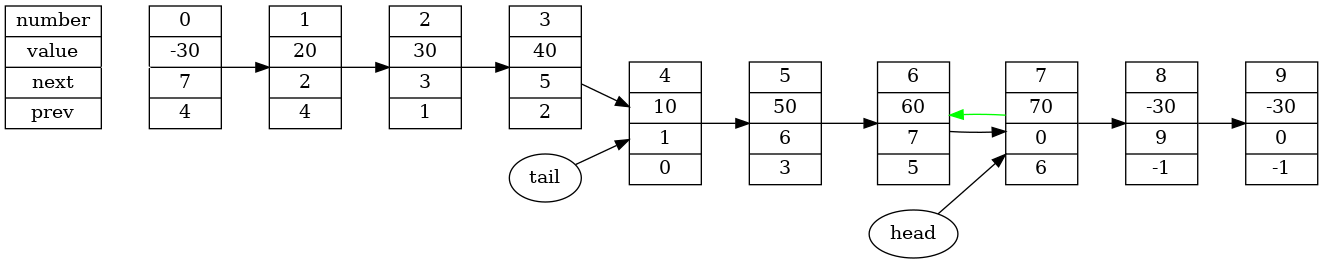
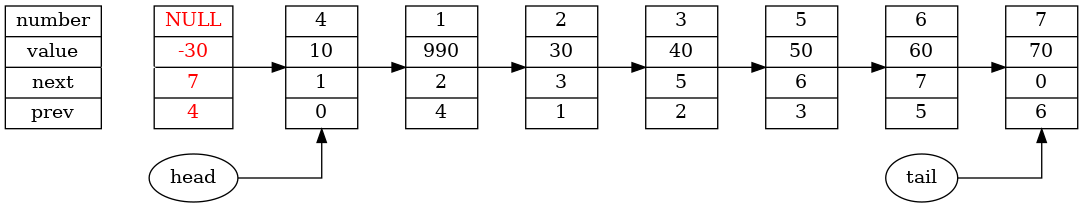
new dump

diff --git a/list.cpp b/list.cpp
@@ -4,7 +4,7 @@ RETURN_VALUES listCtor (LIST *list, int size)
 {
     assert (list);
 
-    if (list->free != 1)
+    if (list->free != EMPTY_LIST)
     {
         printf ("This list is not empty\n");
         return ERROR;
@@ -16,9 +16,9 @@ RETURN_VALUES listCtor (LIST *list, int size)
         return ERROR;
     }
 
-    for (int i = 0; i < LIST_SIZE; i++)
+    for (int numberElement = 0; numberElement < LIST_SIZE; numberElement++ )
     {
-        list->data[i] = POISON;
+        list->data[numberElement]  = POISON;
     }
 
     list->next = (int*)calloc ((size_t)size, sizeof(int));
@@ -27,13 +27,13 @@ RETURN_VALUES listCtor (LIST *list, int size)
         return ERROR;
     }
 
-    for (int i = 0; i < LIST_SIZE; i++)
+    for (int numberElement = 0; numberElement < LIST_SIZE; numberElement++ )
     {
-        if (i == 0 || i == LIST_SIZE - 1)
+        if (numberElement == 0 || numberElement == LIST_SIZE - 1)
         {
-            list->next[i] = 0;
+            list->next[numberElement]  = 0;
         } else {
-            list->next[i] = i + 1;
+            list->next[numberElement]  = numberElement + 1;
         }
     }
 
@@ -43,13 +43,13 @@ RETURN_VALUES listCtor (LIST *list, int size)
         return ERROR;
     }
 
-    for (int i = 0; i < LIST_SIZE; i++)
+    for (int numberElement = 0; numberElement < LIST_SIZE; numberElement++ )
     {
-        if (i == 0)
+        if (numberElement == 0)
         {
-            list->prev[i] = 1;
+            list->prev[numberElement]  = 1;
         } else {
-            list->prev[i] = EMPTY_ELEMENT;
+            list->prev[numberElement]  = EMPTY_ELEMENT;
         }
     }
 
@@ -79,9 +79,9 @@ void listDump (FILE *logFile, LIST *list)
     fprintf (logFile, "\n\n\n");
 
     fprintf (logFile, "Number:");
-    for (int i = 0; i < LIST_SIZE; i++)
+    for (int numberElement = 0; numberElement < LIST_SIZE; numberElement++ )
     {
-        fprintf (logFile, "%4d ", i);
+        fprintf (logFile, "%4d ", numberElement);
     }
     fprintf (logFile, "\n");
 
@@ -131,9 +131,9 @@ void print (FILE *logFile, int *array, const char *name)
 {
     fprintf (logFile, "%s ", name);
 
-    for (int i = 0; i < LIST_SIZE; i++)
+    for (int numberElement = 0; numberElement < LIST_SIZE; numberElement++ )
     {
-        fprintf (logFile, "%4d ", array[i]);
+        fprintf (logFile, "%4d ", array[numberElement]);
     }
 
     fprintf (logFile, "\n");
@@ -171,4 +171,48 @@ LIST_ERRORS listPrintError (LIST *list, int line, const char* function, const ch
     printf ("Error in file %s:%d (function %s)\n", file, line, function);
 
     return list->listState;
+}
+
+RETURN_VALUES makeDotFile (LIST *list)
+{
+    FILE * dotFile = fopen ("dot.dot", "w");
+        if (dotFile == NULL)
+        {
+            return ERROR;
+        }
+
+    fprintf (dotFile, "digraph G{\nsplines=ortho;\nrankdir=LR;\nlist[shape=record,label=\" number | value | next | prev\"];\n");
+
+    for (int numberElement = 0; numberElement < LIST_SIZE; numberElement++ )
+    {
+        if (list->data[numberElement]  != POISON || numberElement == 0)
+        {
+            if (numberElement == 0)
+            {
+                fprintf (dotFile, "%d [shape=record,label=\" NULL | %d | %d | %d\", fontcolor = red];\n", numberElement, list->data[numberElement], list->next[numberElement], list->prev[numberElement]);
+            } else {
+                fprintf (dotFile, "%d [shape=record,label=\" %d | %d | %d | %d\" ];\n", numberElement, numberElement, list->data[numberElement], list->next[numberElement], list->prev[numberElement]);
+            }
+        }
+    }
+
+    fprintf (dotFile, "list -> 0[color=white];\n");
+
+    fprintf (dotFile, "0 -> ");
+    int ind = 0;
+    for (int numberElement = list->prev[0]; numberElement != 0 && list->data[list->next[numberElement]] != POISON; numberElement = list->next[numberElement])
+    {
+        fprintf (dotFile, "%d -> ", numberElement);
+        ind = numberElement;
+    }
+    fprintf (dotFile, "%d[weight = 1000];\n", list->next[ind]);
+
+    fprintf (dotFile, "tail -> %d;\n", list->next[0]);
+    fprintf (dotFile, "head -> %d;\n", list->prev[0]);
+
+    fprintf (dotFile, "}");
+
+    fclose (dotFile);
+
+    return CORRECT;
 }

diff --git a/listOperations.cpp b/listOperations.cpp
@@ -43,8 +43,8 @@ RETURN_VALUES listAddElement (LIST *list, int value, int line, const char* funct
 
     list->prev[currentElement] = previousElement;
 
-    //makeDotFile (list, previousElement, currentElement, "green");
-    //system ("dot dot.dot -Tpng -o gr.png");
+    makeDotFile (list);
+    system ("dot dot.dot -Tpng -o gr.png");
 
     return CORRECT;
 }
@@ -123,39 +123,4 @@ int listSearchElement (LIST *list, int value, int line, const char* function, co
 
     printf ("This element doesn't exist");
     return EMPTY_ELEMENT;
-}
-
-RETURN_VALUES makeDotFile (LIST *list, int anchor, int prev, const char *color)
-{
-    FILE * dotFile = fopen ("dot.dot", "w");
-        if (dotFile == NULL)
-        {
-            return ERROR;
-        }
-
-    fprintf (dotFile, "digraph G{\nrankdir=LR;\nlist[shape=record,label=\" number | value | next | prev\"];\n");
-
-    for (int i = 0; i < LIST_SIZE; i++)
-    {
-        fprintf (dotFile, "%d [shape=record,label=\" %d | %d | %d | %d\" ];\n", i, i, list->data[i], list->next[i], list->prev[i]);
-    }
-
-    fprintf (dotFile, "list -> 0[color=white];\n");
-
-    for (int i = 0; i < LIST_SIZE - 1; i++)
-    {
-        fprintf (dotFile, "%d -> ", i);
-    }
-    fprintf (dotFile, "%d;\n", LIST_SIZE - 1);
-
-    fprintf (dotFile, "%d -> %d [color=\"%s\"];\n", prev, anchor, color);
-
-    fprintf (dotFile, "tail -> %d;\n", list->prev[0]);
-    fprintf (dotFile, "head -> %d;\n", list->next[0]);
-
-    fprintf (dotFile, "}");
-
-    fclose (dotFile);
-
-    return CORRECT;
 }

diff --git a/listOperations.h b/listOperations.h
@@ -8,6 +8,5 @@ RETURN_VALUES listAddElementBeforeAnchor (LIST *list, int anchor, int value, int
 RETURN_VALUES listPrint (LIST *list, int line, const char* function, const char* file);
 RETURN_VALUES listDeleteElement (LIST *list, int anchor, int line, const char* function, const char* file);
 int listSearchElement (LIST *list, int value, int line, const char* function, const char* file);
-RETURN_VALUES makeDotFile (LIST *list, int anchor, int prev, const char *color);
 
 #endif

diff --git a/list.h b/list.h
@@ -19,6 +19,7 @@
 const int EMPTY_ELEMENT = -1;
 const int POISON        = -30;
 const int LIST_SIZE     = 10;
+const int EMPTY_LIST    = 1;
 
 enum RETURN_VALUES
 {
@@ -52,6 +53,7 @@ void listDump (FILE *logFile, LIST *list);
 void print (FILE *logFile, int *array, const char *name);
 LIST_ERRORS listCheckForError (LIST *list);
 LIST_ERRORS listPrintError (LIST *list, int line, const char* function, const char* file);
+RETURN_VALUES makeDotFile (LIST *list);
 
 #endif
 
